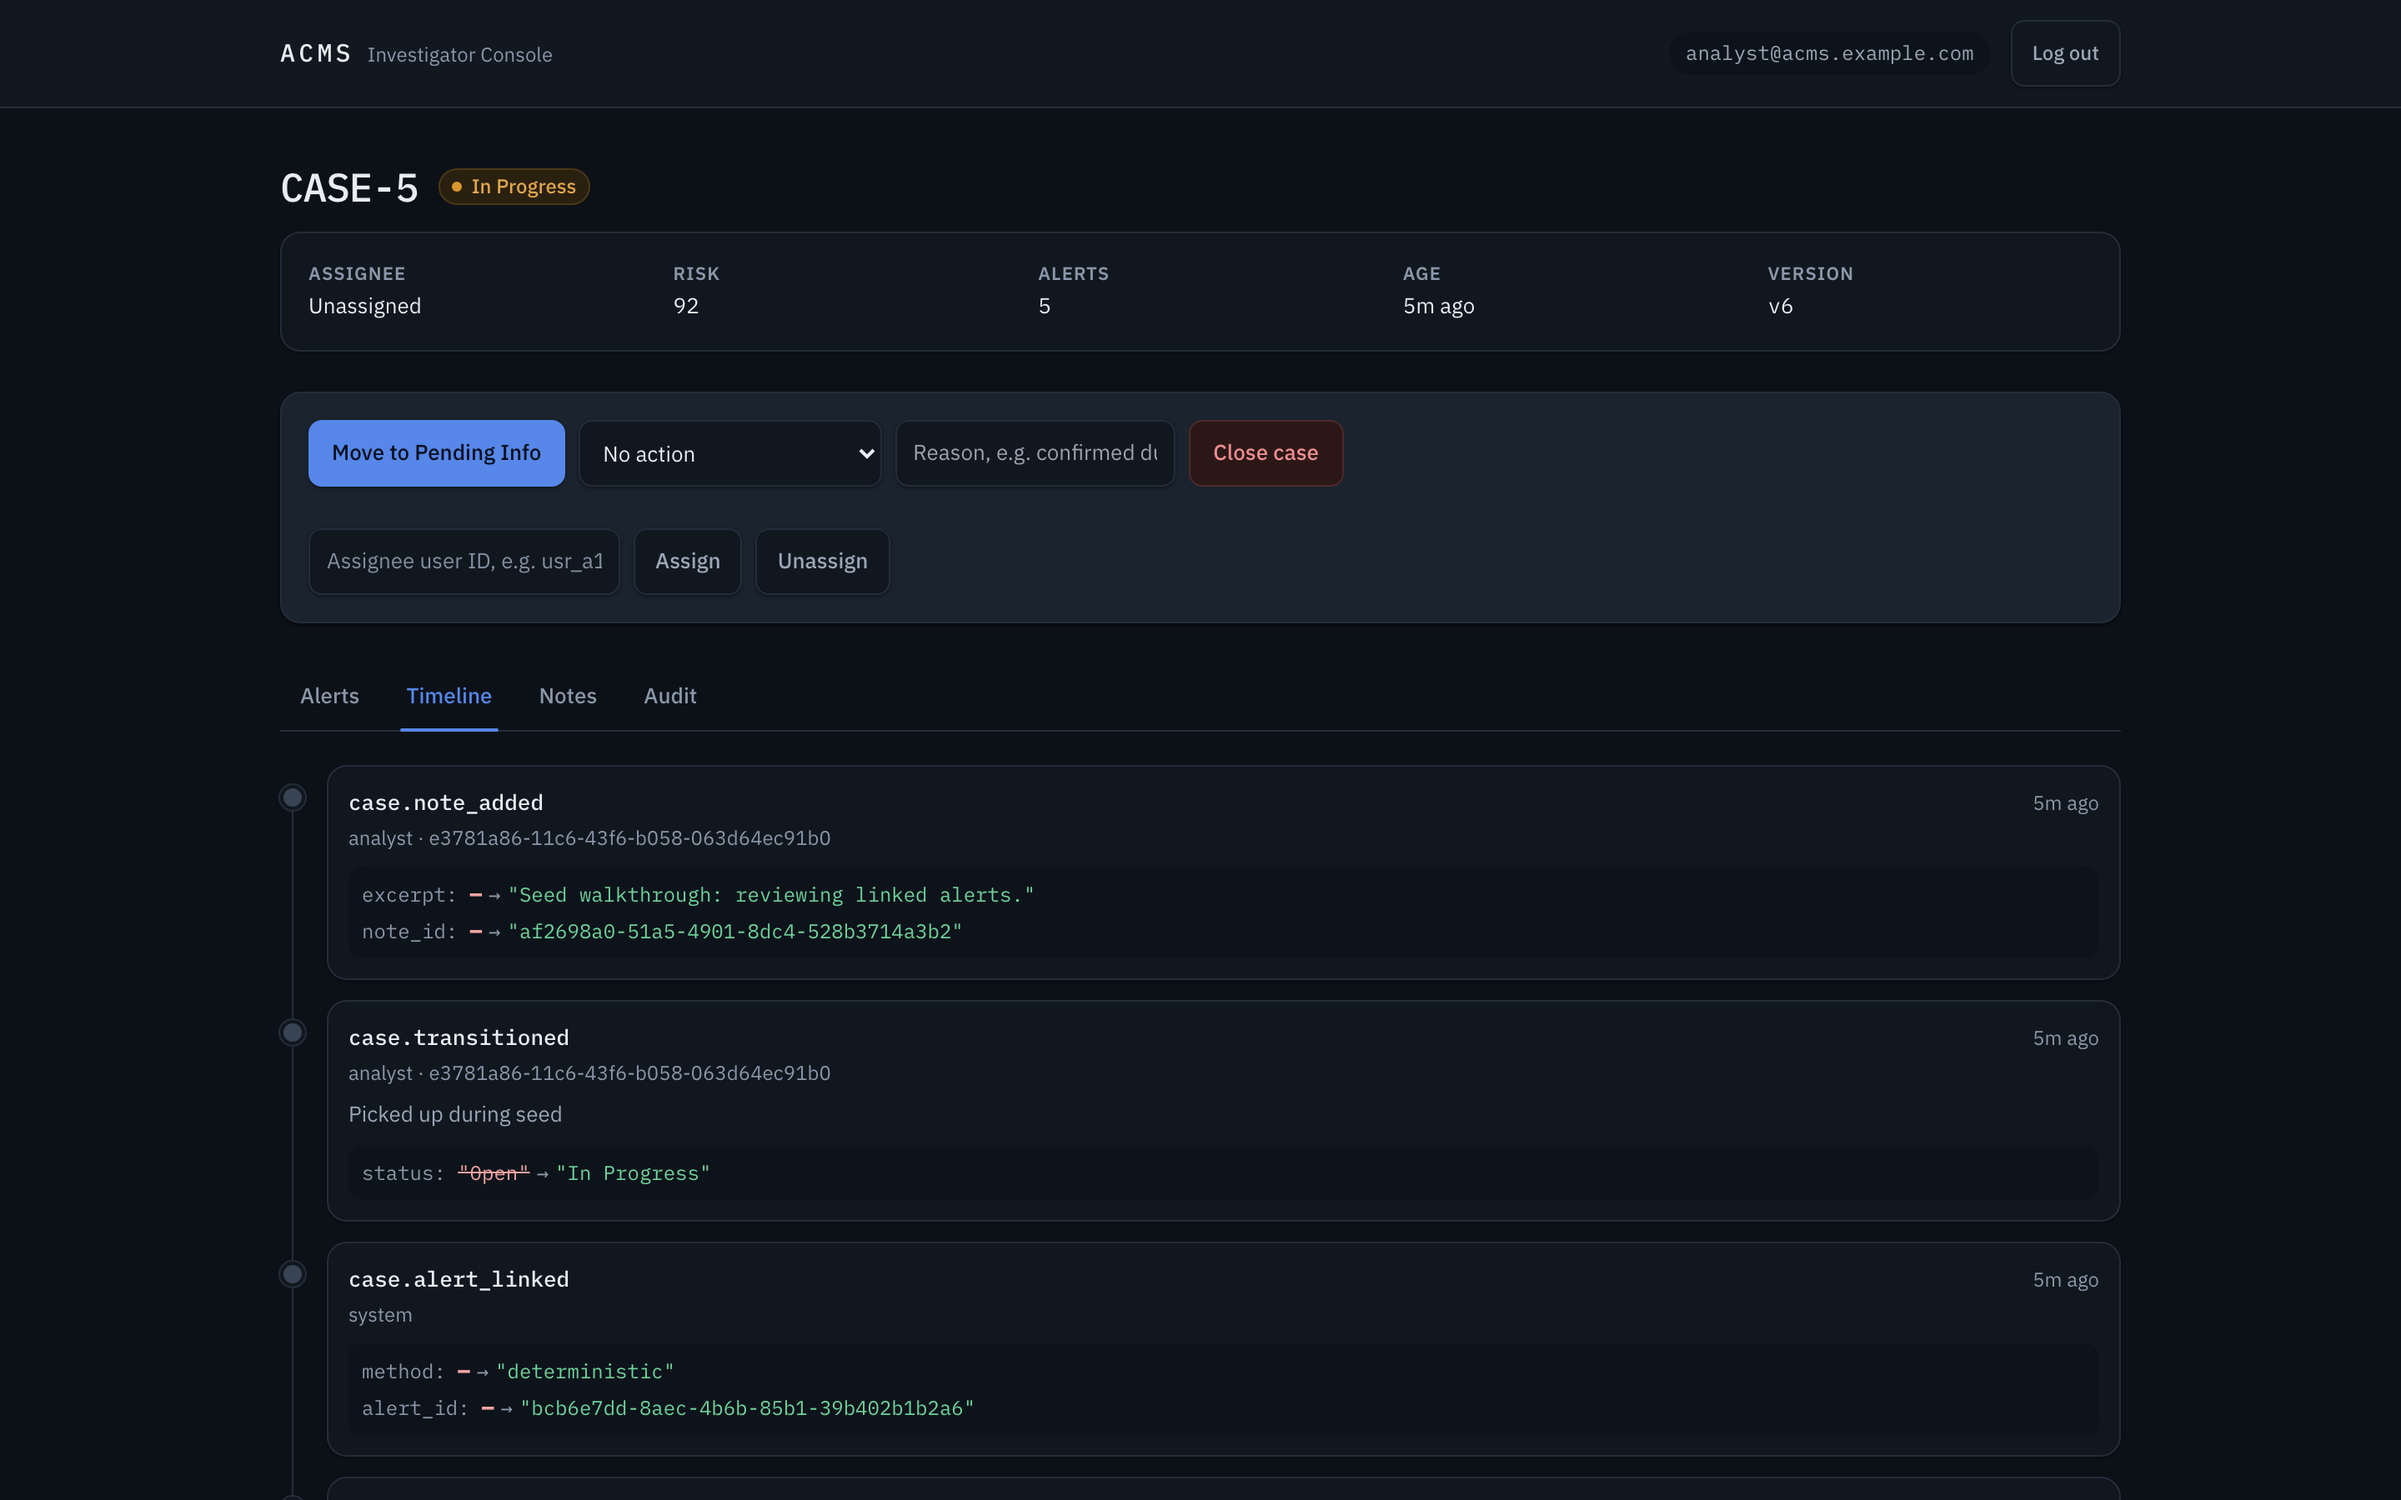
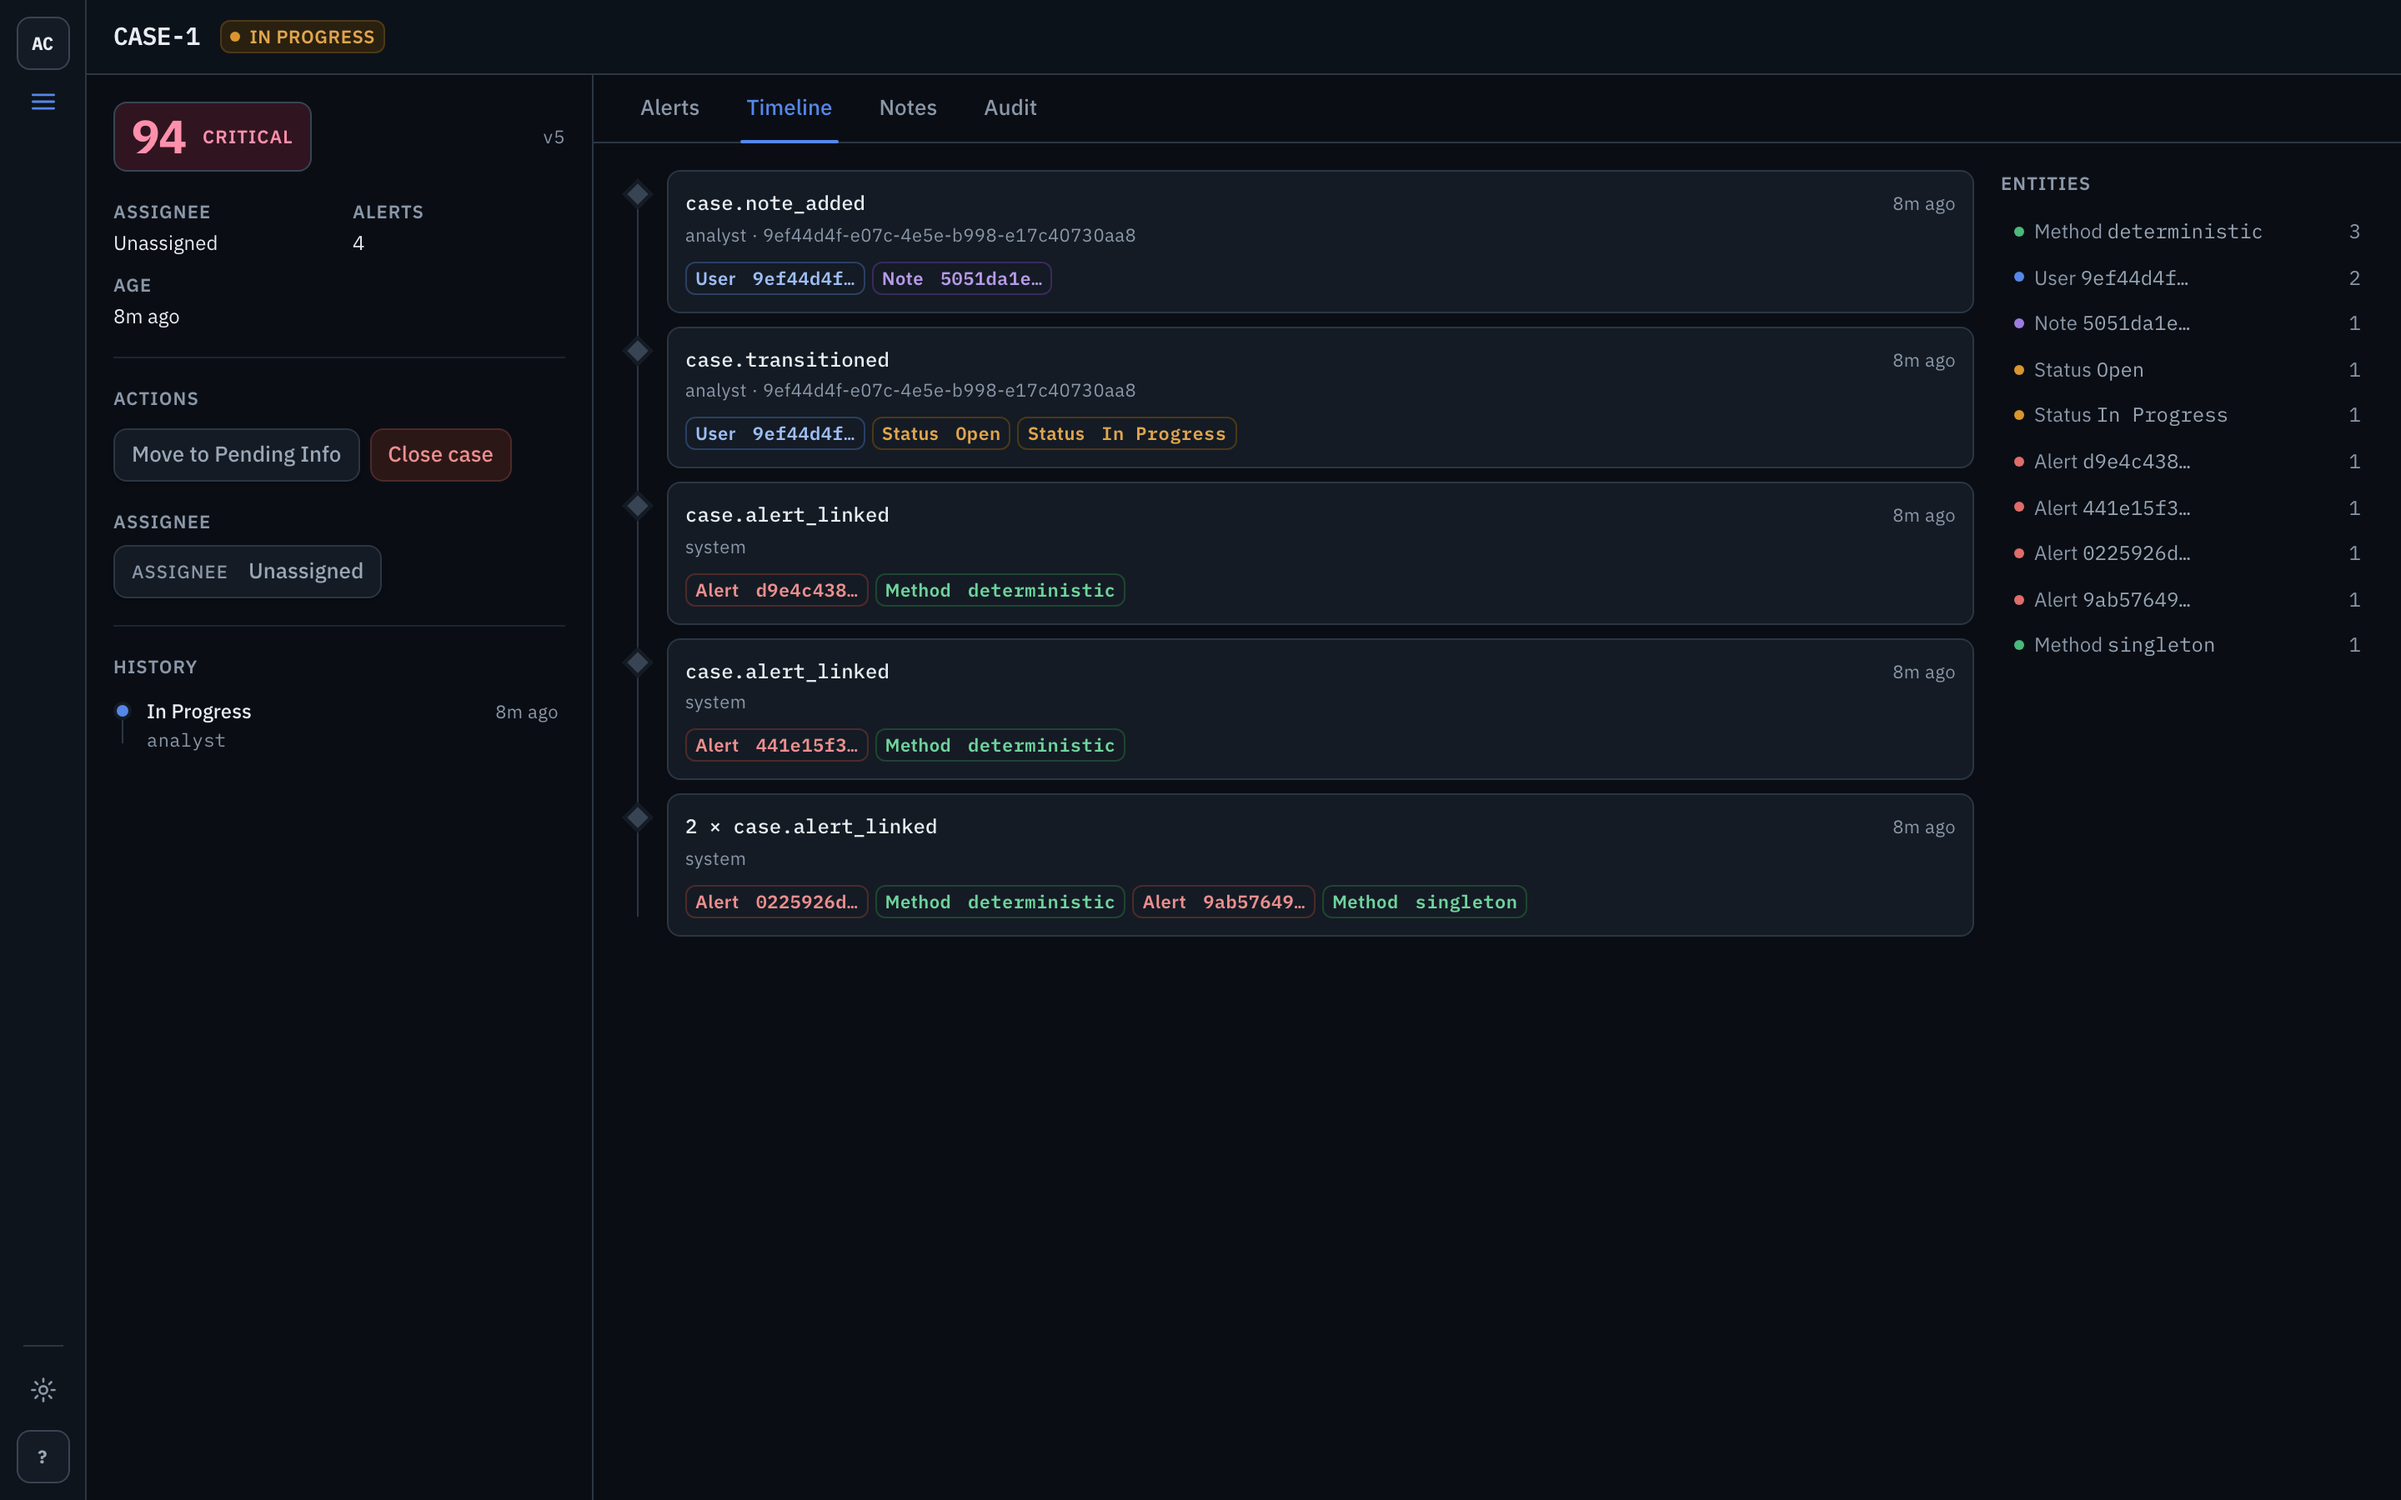
docs: refresh screenshots for the redesigned console
Recapture all 15 screens (light + dark, plus the read-only view) against
the seeded stack and update the captions to match the new dashboard,
two-pane case view, alert table, and entity-linked timeline.

diff --git a/docs/screenshots/README.md b/docs/screenshots/README.md
@@ -2,19 +2,19 @@
 
 Captured from the running stack against the `seed` demo data (three demo logins,
 ~780 alerts grouped into ~350 cases, five worked to *In Progress*). 1440×900,
-2× density. Each screen is shown in both light and dark themes — the app follows
-the viewer's `prefers-color-scheme`.
+2× density. Each screen is shown in both light and dark themes — the app defaults
+to the viewer's `prefers-color-scheme` and the theme can be pinned in Settings.
 
 | File | Screen |
 |---|---|
 | `01-login` | Sign-in |
-| `02-case-list` | Case list — filter bar, keyset-paginated table, risk / alert-count / age columns |
-| `03-case-list-filtered` | Case list filtered to *In Progress* (filter state is in the URL) |
-| `04-case-detail-alerts` | Case detail, **Alerts** tab — one card per linked alert with its grouping rationale (matched deterministic rule ids, or a similarity score with per-feature bars) and a raw-payload disclosure |
-| `05-case-detail-timeline` | **Timeline** tab — the case's audit stream, newest first, with before→after diffs |
+| `02-case-list` | Cases dashboard — KPI summary strip, filter bar, risk-band row accents, sortable dense table |
+| `03-case-list-filtered` | Dashboard filtered to *In Progress* (filter state is in the URL; the KPI strip and the *Clear* control follow it) |
+| `04-case-detail-alerts` | Case detail — control rail (risk gauge, action toolbar, status history) beside the **Alerts** tab: an aligned table with a risk bar, typology and linking badges, and a per-row payload accordion / compare dialog |
+| `05-case-detail-timeline` | **Timeline** tab — a spine of expandable event nodes with entity chips (alert / note / user / method / status) and an entity sidebar; clicking an entity highlights every event that touches it |
 | `06-case-detail-notes` | **Notes** tab — append-only notes with retract |
 | `07-case-detail-audit` | **Audit** tab — the hash-chained event log, chain-verification badge, JSON / HTML export |
-| `08-case-detail-readonly` | The same case seen by a `readonly` user — every mutating control is hidden (the server is still the enforcement point) |
+| `08-case-detail-readonly` | The same case seen by a `readonly` user — the action toolbar and every mutating control are gone (the server is still the enforcement point) |
 
 Regenerate: run the stack (`docker compose up -d && docker compose run --rm seed`,
 or the local equivalent), then drive a browser through the screens above.

diff --git a/README.md b/README.md
@@ -18,9 +18,9 @@ Valkey for bulk grouping, a React/Vite SPA, and a Caddy proxy in front — see
 
 ## Screenshots
 
-| Case list | Case detail — grouping rationale |
+| Cases dashboard | Case detail — Alerts tab |
 |---|---|
-| ![Case list](docs/screenshots/02-case-list.png) | ![Case detail, Alerts tab](docs/screenshots/04-case-detail-alerts.png) |
+| ![Cases dashboard](docs/screenshots/02-case-list.png) | ![Case detail, Alerts tab](docs/screenshots/04-case-detail-alerts.png) |
 | **Audit trail** | **Read-only analyst** |
 | ![Audit tab](docs/screenshots/07-case-detail-audit.png) | ![Read-only view with mutating controls hidden](docs/screenshots/08-case-detail-readonly.png) |
 
